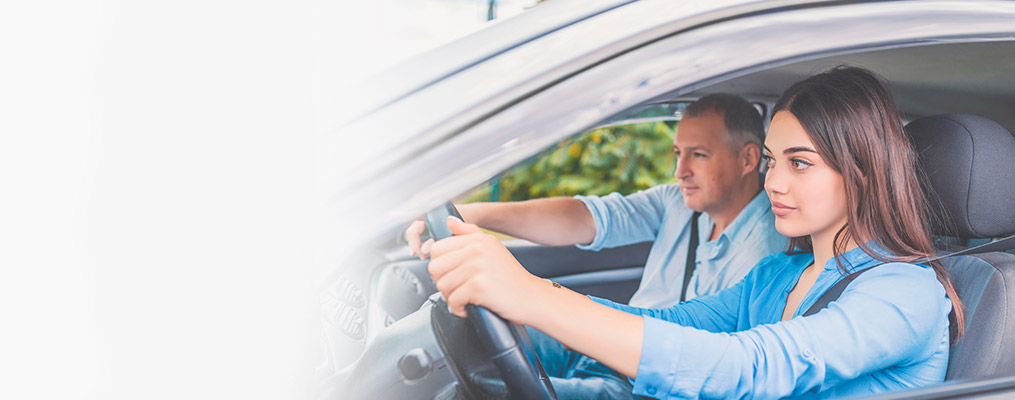
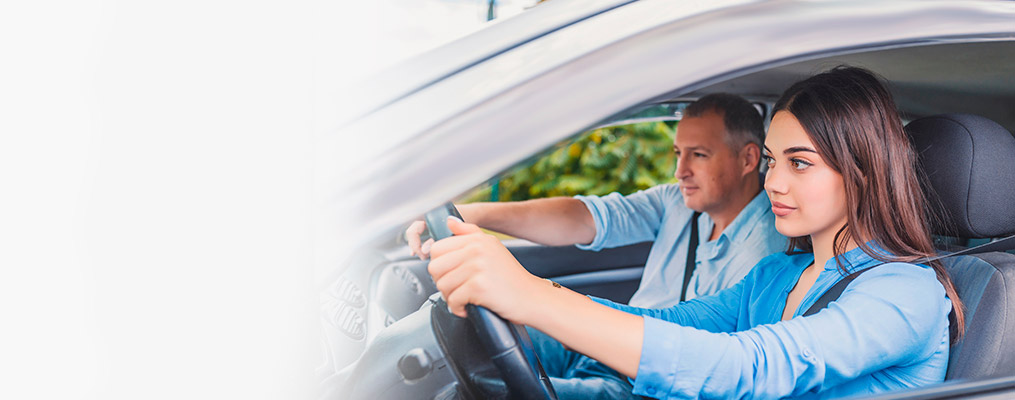
Cambié imagen

diff --git a/index.html b/index.html
@@ -30,7 +30,7 @@
 
 
     .menu{padding:1em;border-bottom: 0.2em solid #f9ea1a;background-color: white;width: 100%}
-    .inicio{padding: 5em 0; background-image: url('img/inicio.jpg'); background-size: cover; background-position: -10em center }
+    .inicio{padding: 5em 0; background-image: url('img/inicio.jpg'); background-size: cover; background-position: 0em center }
     body{padding-top:3.37em;}
     .location{height:3.6em ; margin-right: 1em;}
     .allrights{padding: 2em 0;}
